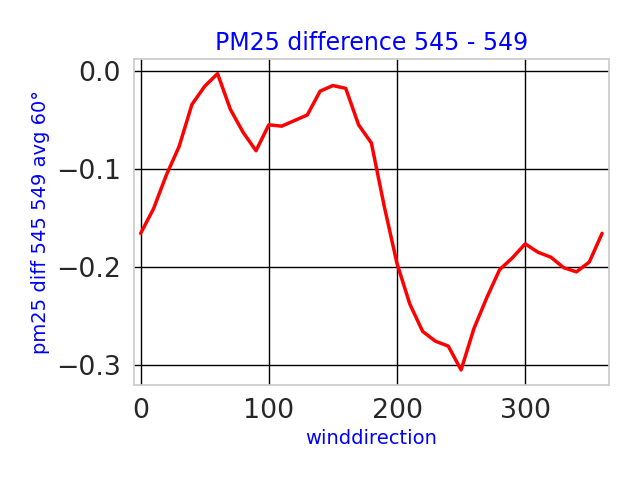
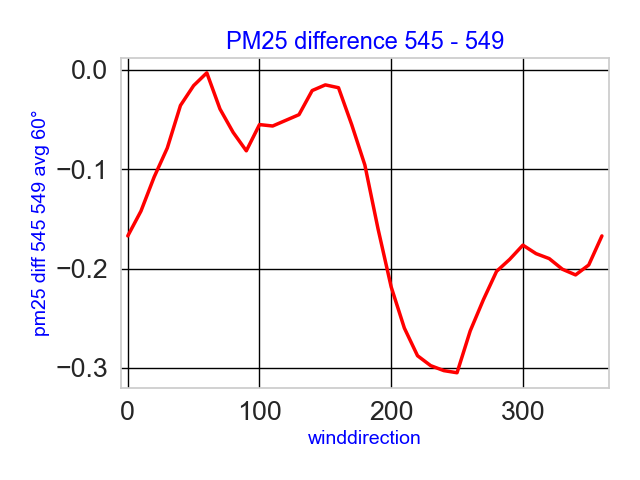
validation in merge added

Changed region(s): [[0.0312, 0.0625, 0.9688, 0.9375]]

diff --git a/python/projects/koog-20231010/Projectanalyzer.py b/python/projects/koog-20231010/Projectanalyzer.py
@@ -76,13 +76,13 @@ def createWideFrame(sensors, knmi):
         else:
             sensorFrame.drop_duplicates(inplace=True, ignore_index=True)
             merged = pd.merge(merged, sensorFrame, how='outer', on='datetime',
-                              suffixes=("", "_" + sensor))
+                              suffixes=("", "_" + sensor), validate="1:1")
             merged.drop(['sensorname'+'_'+sensor], axis=1, inplace=True)
     merged.drop(['sensorname'], axis=1, inplace=True)
     # delete 0 and 990
     knmi = knmi[(knmi["winddirection"] < 369) & (knmi["winddirection"] > 5)]
     merged = pd.merge(merged, knmi, on='datetime', 
-                      suffixes=("", "_knmi"))
+                      suffixes=("", "_knmi"), validate="1:1")
     merged.drop(['sensorname', "pm25", "temperature", "humidity"], axis=1, inplace=True)
 #    merged.drop(merged.columns[0], axis=1, inplace=True)
 
@@ -162,7 +162,7 @@ def runit():
     simpleScatterPlot(wideFrameAugmented, x="temperature_HLL_298", y="temperature_HLL_326",
                       xlim=(-10,50), ylim=(-10,50))
 
-    windplot(wideFrameAugmented, "diff_298_326", polar=False, smooth=2)
+    windplot(wideFrameAugmented, "diff_298_326", polar=False, smooth=2, method="medianvalues")
     windplot(wideFrameAugmented, "diff_326_320", polar=False, smooth=2)
     windplot(wideFrameAugmented, "diff_298_320", polar=False, smooth=2)
 
